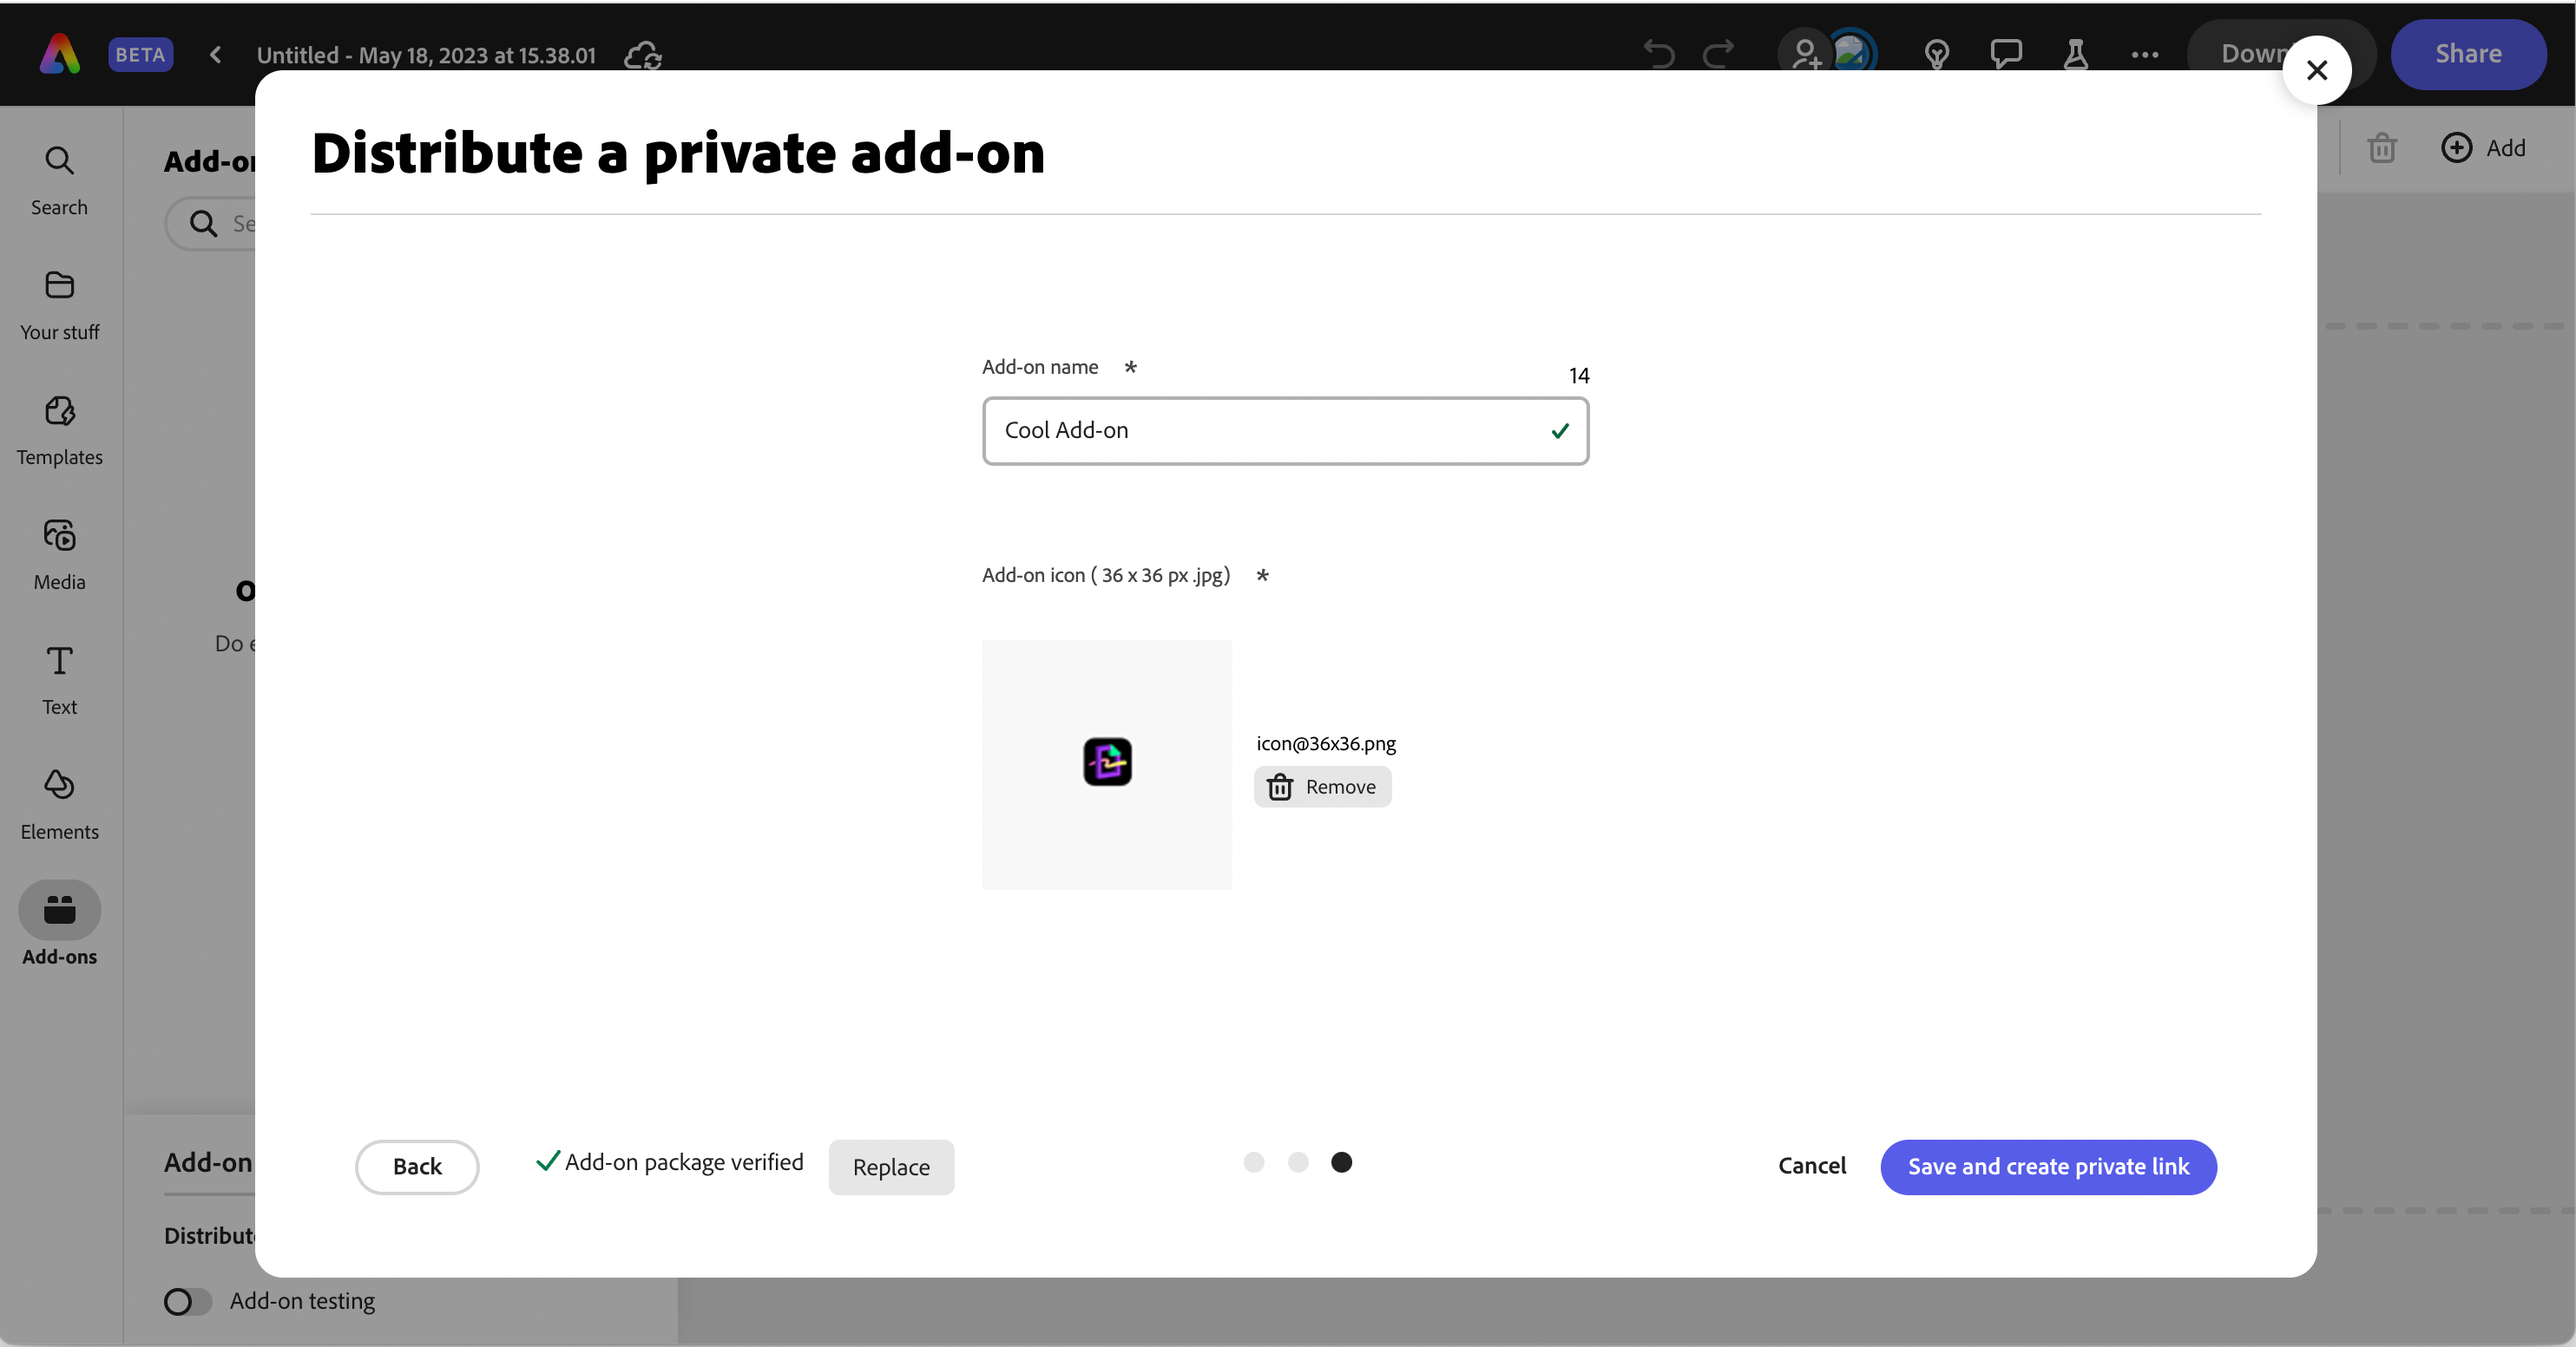
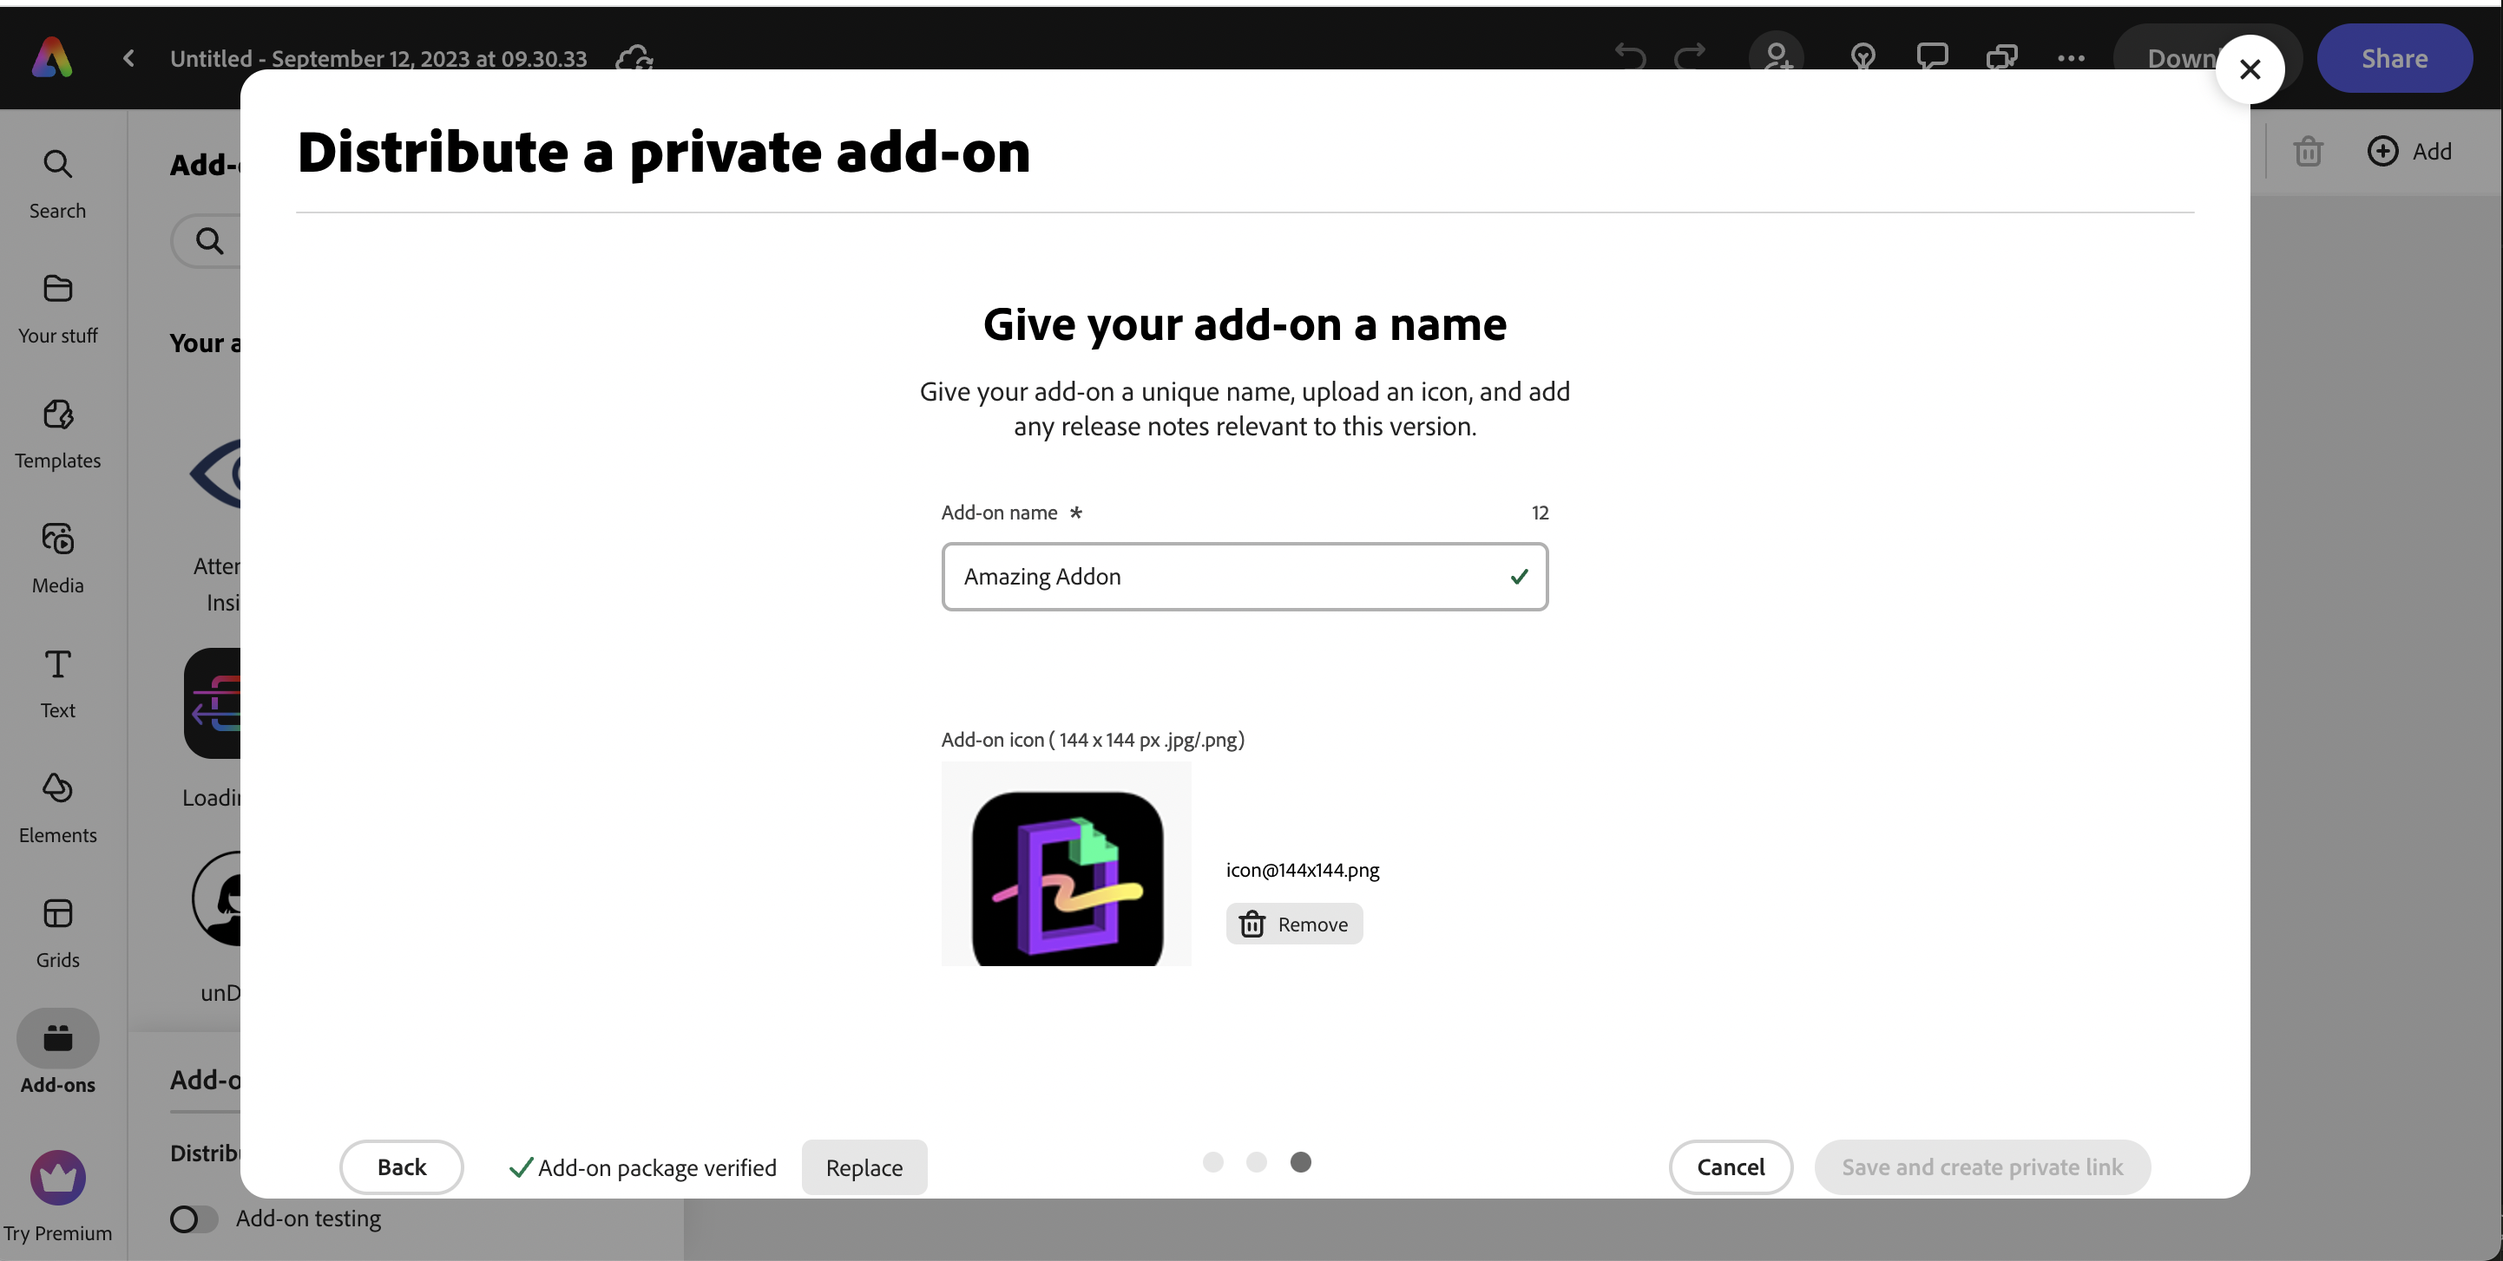
Import/export file types, FAQ, distrib updates

diff --git a/src/pages/guides/faq.md b/src/pages/guides/faq.md
@@ -38,7 +38,8 @@ Preview Adobe Express add-on SDK documentation while you wait to [join our priva
 - [I receive a `MANIFEST_NOT_FOUND_ERROR` during the package verification when trying to upload my plugin package for distribution.](#i-receive-this-error-when-trying-to-run-my-add-on-error-eisdir-illegal-operation-on-a-directory)
 - [How can I monetize my add-on?](#how-can-i-monetize-my-add-on)
 - [What does it mean when an API is considered **experimental**?](#what-does-it-mean-when-an-api-is-considered-experimental)
-- [What are the supported file types for exported content?](#what-are-the-supported-file-types-for-exported-content)
+- [What are the supported mime types/file formats for exported content?](#what-are-the-supported-mime-typesfile-formats-for-exported-content)
+- [What are the supported file formats for imported content in Adobe Express?](#what-are-the-supported-file-formats-for-imported-content-in-adobe-express)
 
 ## Answers
 
@@ -107,8 +108,11 @@ We recommend using `npm` for running the CLI scripts. Note that while there migh
   At this time, the only way to monetize is by using a third party provider, and ensuring you choose one that provides safety measures, security and proper payment processing. Some options you may want to consider include **Gumroad**, **Stripe**, **Paddle** and **FastSpring**.
 
 ### What does it mean when an API is considered **experimental**?
-  Experimental APIs are those which have not been declared stable yet, and to try them, first need to set the `experimentalApis` flag to `true` in the [`requirements`](../references/manifest/index.md#requirements) section of the `manifest.json`. The `experimentalApis` flag is **only allowed during development** and needs to be removed during submission. Experimental APIs should never be used in any add-ons you will be distributing. 
+  Experimental APIs are those which have not been declared stable yet, and to try them, first need to set the `experimentalApis` flag to `true` in the [`requirements`](../references/manifest/index.md#requirements) section of the [`manifest.json`](../references/manifest/index.md). The `experimentalApis` flag is **only allowed during development** and needs to be removed during submission. Experimental APIs should never be used in any add-ons you will be distributing. 
 
-### What are the supported file types for exported content?
-  The supported file types for exported content are **"image/jpeg", "image/png", "video/mp4"** and **"application/pdf"**.
+### What are the supported mime types/file formats for exported content?
+  The supported file types for exported content are **"image/jpeg" (jpg format), "image/png" (png format), "video/mp4" (mp4 format)** and **"application/pdf" (pdf format)**.
+
+### What are the supported file formats for imported content in Adobe Express?
+  The supported file types for imported audio content are **aac, adts, ai, avi, crm, f4v, gif, jpeg, jpg, m1v, m2p, m2t, m2ts, m4a, m4v, mov, mp3, mp4, mpeg, mpg, msvideo, mts, png, psd, psdt, quicktime, ts, tts, wav, webm, webp, wmv, xm4a, xwav, 264, 3gp**.
 

diff --git a/src/pages/guides/distribute/public-dist.md b/src/pages/guides/distribute/public-dist.md
@@ -12,13 +12,16 @@ This section outlines everything you'll need in order to be prepared for submitt
 
 | Name                    | Character Length  | Description   |    
 | -------------:          | ------------------| -----------:  | 
+| **\* Add-on name**      | 25                | A unique name for your add-on.|                   
 | **\* Summary**               | 50                | A short description of what your add-on does.|                   
 | **\* Full Description**      | 1000              | Full context and description of your add-on and it's features |
 | **\* Help URL**              | 1000              | URL for your users to get help (ie: https://www.example.com/)  |
 | **\* Support email address** | 1000              | An email address that users of your add-on can contact for support |
 | **Privacy Notice**          | 1000              | URL of your privacy notice (ie: https://www.example.com/) |
 | **End User License Agreement(EULA)**| 1000      | End User License Agreement URL (ie: https://www.example.com/) |
-| **Keywords**                | 1000              | Keywords to help users find your add-on (comma-separated) |
+| **Keywords**                | 100              | Keywords to help users find your add-on (comma-separated) |
+| **Release notes**       | 1000  | Provide information specific to this version of the add-on |
+
 
 ### 2. Prepare your assets
 
@@ -100,7 +103,7 @@ In this step, you will be prompted to choose a unique name for your add-on. Your
 
 <InlineAlert slots="text" variant="success"/>
 
-The number of characters allowed for any given field is shown above it throughout the distribution experience (for instance, the name field allows a max of 25 characters), and the number will automatically update with the remaining amount as you're typing into it.
+The number of characters allowed for any given field is shown above it throughout the distribution experience (for instance, the name field allows a max of 25 characters). The number will automatically update with the remaining amount as you're typing into it.
 
 ![](./img/pub-name2.png)
 

diff --git a/src/pages/guides/distribute/private-dist.md b/src/pages/guides/distribute/private-dist.md
@@ -66,13 +66,13 @@ Otherwise, you should see the following green check mark showing it's verified a
 ![Verified](./img/private-verified.png)
 
 ## Step 4: Enter name, icon and release notes
-Now you will be prompted to choose a unique *name* for your add-on, an *icon*, and *release notes*. Your add-on name will be validated when you tab out (or the field loses focus) before you will be allowed to move to the next step. You will know that it's verified by a green checkmark shown, or receive an error that it exists and you need to choose another. 
+In this step you will be prompted to choose a unique **Add-on name** (25 characters max), a 144x144px **Add-on icon**, and optional **Release notes** (1000 characters max). Your add-on name will be validated when you tab out (or the field loses focus) before you will be allowed to move to the next step. You will know that it's verified by a green checkmark shown, or receive an error that it exists, and you need to choose another. 
 
 ![](./img/private-name-icon.png)
 
 <InlineAlert slots="text" variant="success"/>
 
-The number of characters allowed for any given field is shown above it throughout the distribution experience (for instance, the name field allows a max of 25 characters), and the number will automatically update with the remaining amount as you're typing into it.
+The number of characters allowed for any given field is shown above it throughout the distribution experience (for instance, the name field allows a max of 25 characters). The number will automatically update with the remaining amount as you're typing into it.
 
 Once you've entered the required fields, the **Save and create private link** button will be enabled.
 

diff --git a/src/pages/guides/index.md b/src/pages/guides/index.md
@@ -19,7 +19,7 @@ contributors:
 <Hero slots="heading, text" background="rgb(138, 43, 226)"/>
 
 # Overview
-Adobe Express is an all-in-one content creation app that makes it fast, easy and fun to design standout flyers, TikToks, resumes, Reels, banners, logos, invitations, webpages and so much more. 
+Adobe Express is the AI-first, all-in-one creativity app that makes it fast, easy and fun for any user to design and share standout content. 
 
 
 <InlineAlert slots="text" variant="info"/>
